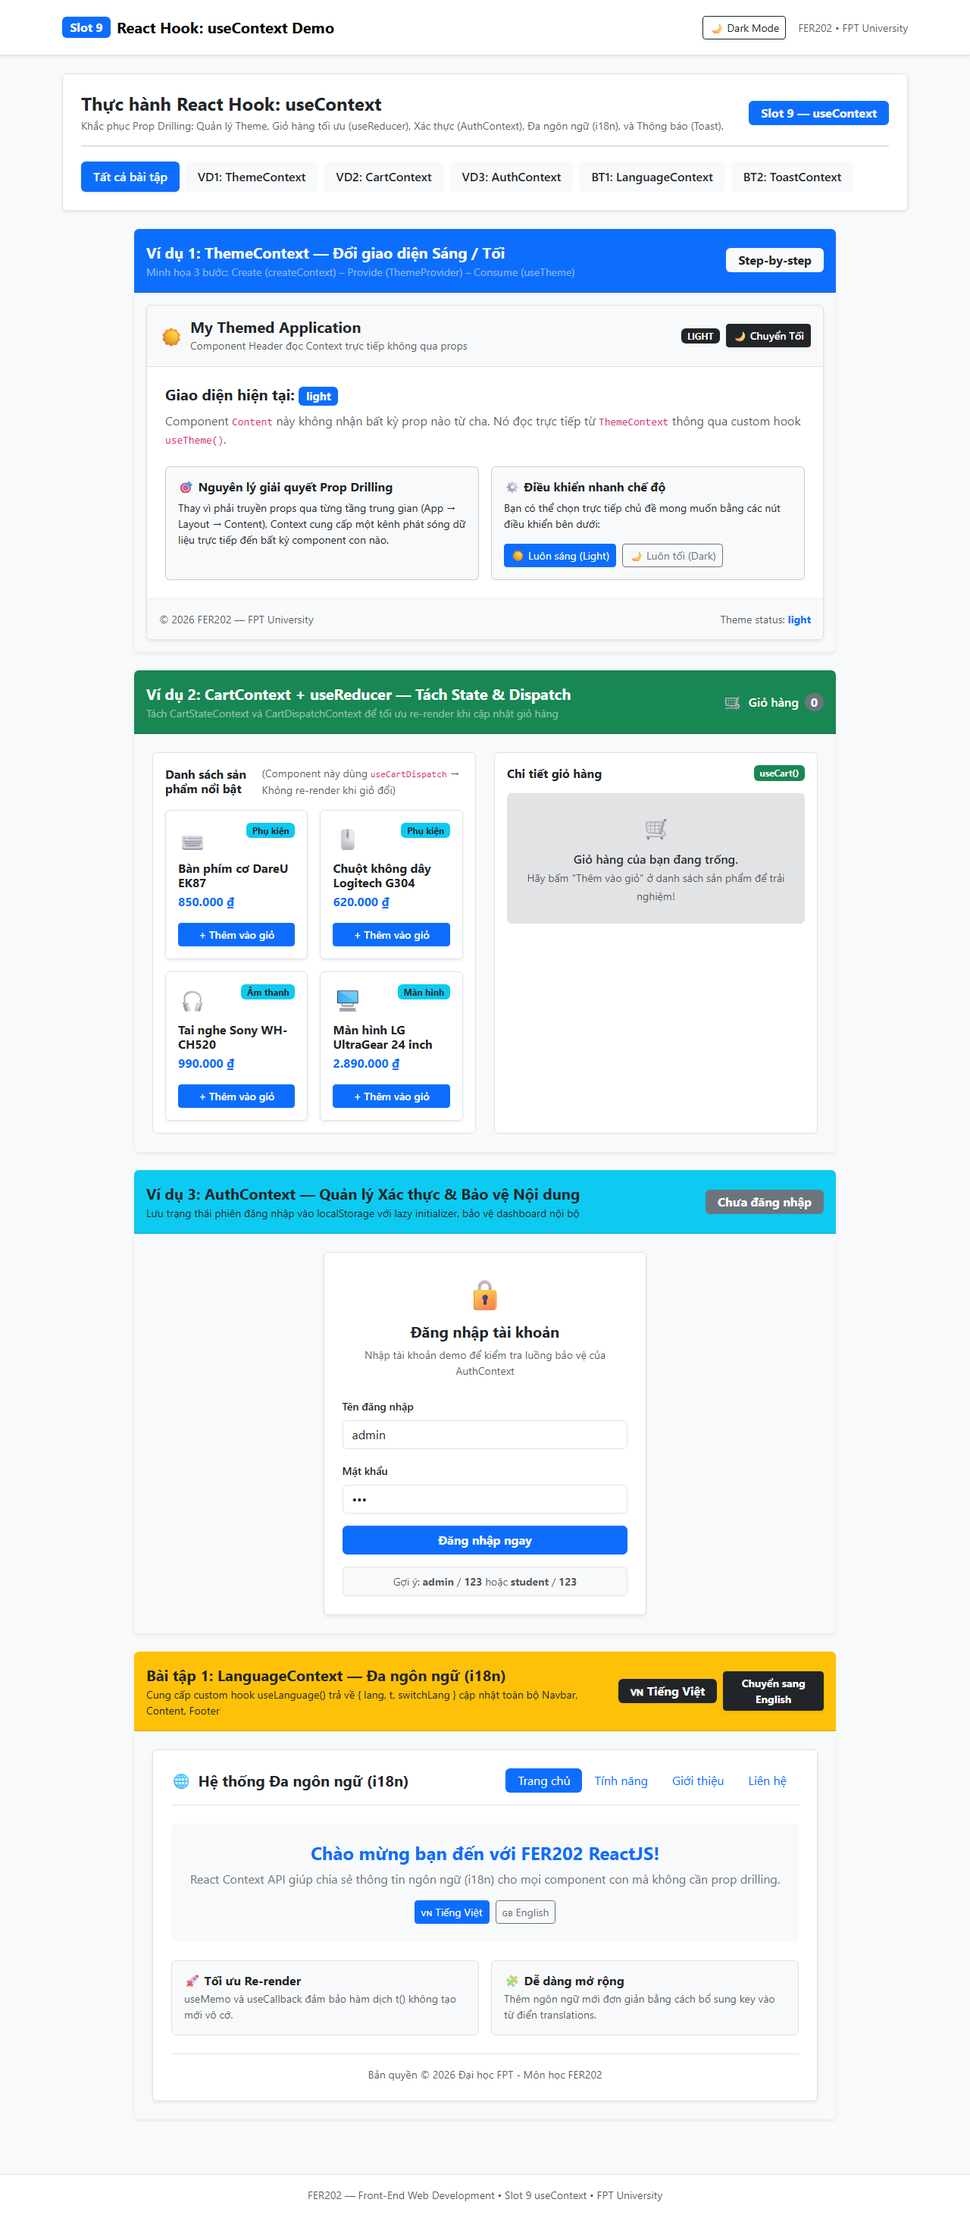
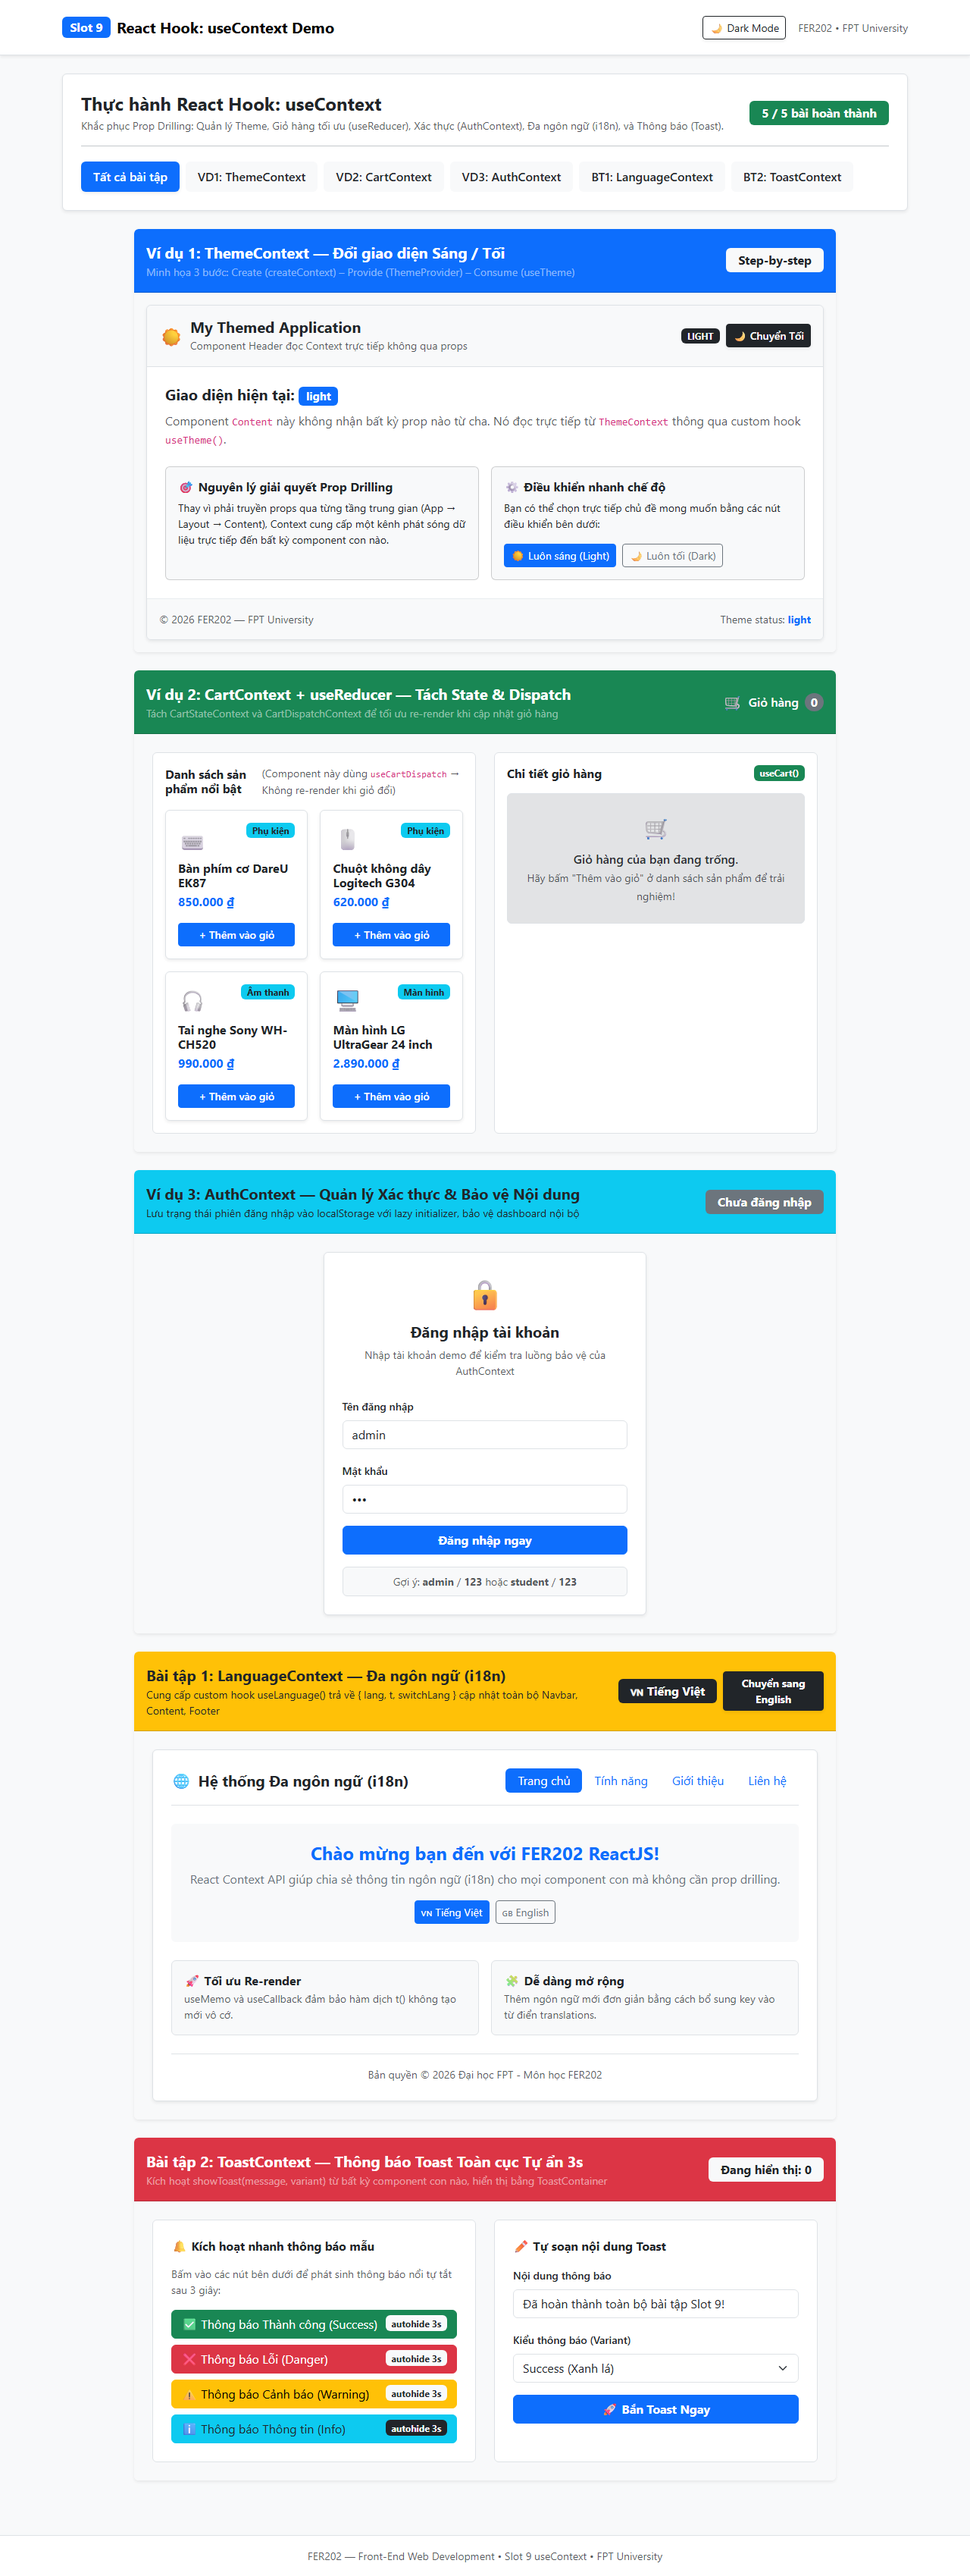
feat(slot9): implement ToastContext for global notifications (#42)

Changed region(s): [[0.0625, 0.0, 0.9375, 0.9658]]

diff --git a/slot9/theme-context-demo/src/components/NotificationToast.jsx b/slot9/theme-context-demo/src/components/NotificationToast.jsx
@@ -1,0 +1,131 @@
+import { useState } from 'react';
+import Card from 'react-bootstrap/Card';
+import Button from 'react-bootstrap/Button';
+import Form from 'react-bootstrap/Form';
+import Badge from 'react-bootstrap/Badge';
+import Row from 'react-bootstrap/Row';
+import Col from 'react-bootstrap/Col';
+import { useToast } from '../contexts/ToastContext';
+import { useTheme } from '../contexts/ThemeContext';
+
+export default function NotificationToast() {
+  const { showToast, toasts } = useToast();
+  const { theme } = useTheme();
+  const isDark = theme === 'dark';
+
+  const [customMsg, setCustomMsg] = useState('Đã hoàn thành toàn bộ bài tập Slot 9!');
+  const [customVariant, setCustomVariant] = useState('success');
+
+  const handleCustomToast = (e) => {
+    e.preventDefault();
+    if (customMsg.trim()) {
+      showToast(customMsg.trim(), customVariant, 'Thông báo tùy chỉnh');
+    }
+  };
+
+  return (
+    <Card className="shadow-sm border-0 mb-4 overflow-hidden">
+      <Card.Header className="bg-danger text-white d-flex justify-content-between align-items-center py-3">
+        <div>
+          <span className="fw-bold fs-5">Bài tập 2: ToastContext — Thông báo Toast Toàn cục Tự ẩn 3s</span>
+          <div className="small text-white-50">
+            Kích hoạt showToast(message, variant) từ bất kỳ component con nào, hiển thị bằng ToastContainer
+          </div>
+        </div>
+        <Badge bg="light" text="dark" className="fs-6 px-3 py-2">
+          Đang hiển thị: {toasts.length}
+        </Badge>
+      </Card.Header>
+
+      <Card.Body className={`p-4 ${isDark ? 'bg-dark text-white' : 'bg-light'}`}>
+        <Row className="g-4">
+          <Col lg={6}>
+            <div className={`p-4 rounded border h-100 ${isDark ? 'bg-black border-secondary' : 'bg-white'}`}>
+              <h6 className="fw-bold mb-3">🔔 Kích hoạt nhanh thông báo mẫu</h6>
+              <p className={`small mb-3 ${isDark ? 'text-secondary' : 'text-muted'}`}>
+                Bấm vào các nút bên dưới để phát sinh thông báo nổi tự tắt sau 3 giây:
+              </p>
+
+              <div className="d-flex flex-column gap-2">
+                <Button
+                  variant="success"
+                  onClick={() => showToast('Thao tác ghi nhận dữ liệu hoàn tất!', 'success', 'Thành công')}
+                  className="d-flex justify-content-between align-items-center"
+                >
+                  <span>✅ Thông báo Thành công (Success)</span>
+                  <Badge bg="light" text="dark">autohide 3s</Badge>
+                </Button>
+
+                <Button
+                  variant="danger"
+                  onClick={() => showToast('Không thể kết nối đến máy chủ CSDL!', 'danger', 'Lỗi nghiêm trọng')}
+                  className="d-flex justify-content-between align-items-center"
+                >
+                  <span>❌ Thông báo Lỗi (Danger)</span>
+                  <Badge bg="light" text="dark">autohide 3s</Badge>
+                </Button>
+
+                <Button
+                  variant="warning"
+                  onClick={() => showToast('Phiên làm việc sắp hết hạn trong 5 phút nữa.', 'warning', 'Cảnh báo')}
+                  className="d-flex justify-content-between align-items-center"
+                >
+                  <span>⚠ Thông báo Cảnh báo (Warning)</span>
+                  <Badge bg="light" text="dark">autohide 3s</Badge>
+                </Button>
+
+                <Button
+                  variant="info"
+                  onClick={() => showToast('Dự án useContext đã được cấu hình hoàn chỉnh.', 'info', 'Tin tức')}
+                  className="d-flex justify-content-between align-items-center text-dark"
+                >
+                  <span>ℹ Thông báo Thông tin (Info)</span>
+                  <Badge bg="dark">autohide 3s</Badge>
+                </Button>
+              </div>
+            </div>
+          </Col>
+
+          <Col lg={6}>
+            <div className={`p-4 rounded border h-100 ${isDark ? 'bg-black border-secondary' : 'bg-white'}`}>
+              <h6 className="fw-bold mb-3">✏ Tự soạn nội dung Toast</h6>
+              <Form onSubmit={handleCustomToast}>
+                <Form.Group className="mb-3">
+                  <Form.Label className="small fw-semibold">Nội dung thông báo</Form.Label>
+                  <Form.Control
+                    type="text"
+                    value={customMsg}
+                    onChange={(e) => setCustomMsg(e.target.value)}
+                    placeholder="Nhập nội dung cần hiển thị..."
+                    className={isDark ? 'bg-dark text-white border-secondary' : ''}
+                    required
+                  />
+                </Form.Group>
+
+                <Form.Group className="mb-3">
+                  <Form.Label className="small fw-semibold">Kiểu thông báo (Variant)</Form.Label>
+                  <Form.Select
+                    value={customVariant}
+                    onChange={(e) => setCustomVariant(e.target.value)}
+                    className={isDark ? 'bg-dark text-white border-secondary' : ''}
+                  >
+                    <option value="primary">Primary (Xanh dương)</option>
+                    <option value="success">Success (Xanh lá)</option>
+                    <option value="danger">Danger (Đỏ)</option>
+                    <option value="warning">Warning (Vàng cam)</option>
+                    <option value="info">Info (Xanh ngọc)</option>
+                    <option value="dark">Dark (Đen)</option>
+                  </Form.Select>
+                </Form.Group>
+
+                <Button type="submit" variant="primary" className="w-100 fw-bold">
+                  🚀 Bắn Toast Ngay
+                </Button>
+              </Form>
+            </div>
+          </Col>
+        </Row>
+      </Card.Body>
+    </Card>
+  );
+}

diff --git a/slot9/theme-context-demo/src/contexts/ToastContext.jsx b/slot9/theme-context-demo/src/contexts/ToastContext.jsx
@@ -1,0 +1,62 @@
+import { createContext, useContext, useState, useMemo, useCallback } from 'react';
+import Toast from 'react-bootstrap/Toast';
+import ToastContainer from 'react-bootstrap/ToastContainer';
+
+export const ToastContext = createContext(null);
+
+export function ToastProvider({ children }) {
+  const [toasts, setToasts] = useState([]);
+
+  const showToast = useCallback((message, variant = 'primary', title = 'Thông báo hệ thống') => {
+    const id = Date.now() + Math.random().toString(36).substring(2, 7);
+    const newToast = { id, message, variant, title, time: new Date().toLocaleTimeString('vi-VN') };
+    setToasts((prev) => [...prev, newToast]);
+  }, []);
+
+  const removeToast = useCallback((id) => {
+    setToasts((prev) => prev.filter((t) => t.id !== id));
+  }, []);
+
+  const value = useMemo(
+    () => ({
+      showToast,
+      toasts,
+    }),
+    [showToast, toasts]
+  );
+
+  return (
+    <ToastContext.Provider value={value}>
+      {children}
+      {/* ToastContainer hien thi o goc duoi ben phai */}
+      <ToastContainer position="bottom-end" className="p-3" style={{ zIndex: 9999 }}>
+        {toasts.map((t) => (
+          <Toast
+            key={t.id}
+            bg={t.variant}
+            onClose={() => removeToast(t.id)}
+            delay={3000}
+            autohide
+            className="shadow"
+          >
+            <Toast.Header closeButton>
+              <strong className="me-auto">{t.title}</strong>
+              <small>{t.time}</small>
+            </Toast.Header>
+            <Toast.Body className={t.variant === 'light' ? 'text-dark' : 'text-white'}>
+              {t.message}
+            </Toast.Body>
+          </Toast>
+        ))}
+      </ToastContainer>
+    </ToastContext.Provider>
+  );
+}
+
+export function useToast() {
+  const context = useContext(ToastContext);
+  if (context === null) {
+    throw new Error('useToast phai duoc su dung ben trong <ToastProvider>');
+  }
+  return context;
+}

diff --git a/slot9/theme-context-demo/src/App.jsx b/slot9/theme-context-demo/src/App.jsx
@@ -11,6 +11,7 @@ import ThemeSwitcher from './components/ThemeSwitcher';
 import CartManager from './components/CartManager';
 import AuthManager from './components/AuthManager';
 import LanguageSwitcher from './components/LanguageSwitcher';
+import NotificationToast from './components/NotificationToast';
 import { useTheme } from './contexts/ThemeContext';
 import { TABS_CONFIG } from './data/exercise-data';
 
@@ -55,8 +56,8 @@ export default function App() {
                 Khắc phục Prop Drilling: Quản lý Theme, Giỏ hàng tối ưu (useReducer), Xác thực (AuthContext), Đa ngôn ngữ (i18n), và Thông báo (Toast).
               </p>
             </div>
-            <Badge bg="primary" className="px-3 py-2 fs-6">
-              Slot 9 — useContext
+            <Badge bg="success" className="px-3 py-2 fs-6">
+              5 / 5 bài hoàn thành
             </Badge>
           </div>
 
@@ -111,6 +112,12 @@ export default function App() {
             {(activeTab === 'all' || activeTab === 'ex4') && (
               <div id="exercise-4">
                 <LanguageSwitcher />
+              </div>
+            )}
+
+            {(activeTab === 'all' || activeTab === 'ex5') && (
+              <div id="exercise-5">
+                <NotificationToast />
               </div>
             )}
           </Col>

diff --git a/slot9/theme-context-demo/src/main.jsx b/slot9/theme-context-demo/src/main.jsx
@@ -7,6 +7,7 @@ import { ThemeProvider } from './contexts/ThemeContext';
 import { CartProvider } from './contexts/CartContext';
 import { AuthProvider } from './contexts/AuthContext';
 import { LanguageProvider } from './contexts/LanguageContext';
+import { ToastProvider } from './contexts/ToastContext';
 
 createRoot(document.getElementById('root')).render(
   <StrictMode>
@@ -14,7 +15,9 @@ createRoot(document.getElementById('root')).render(
       <AuthProvider>
         <CartProvider>
           <LanguageProvider>
-            <App />
+            <ToastProvider>
+              <App />
+            </ToastProvider>
           </LanguageProvider>
         </CartProvider>
       </AuthProvider>
